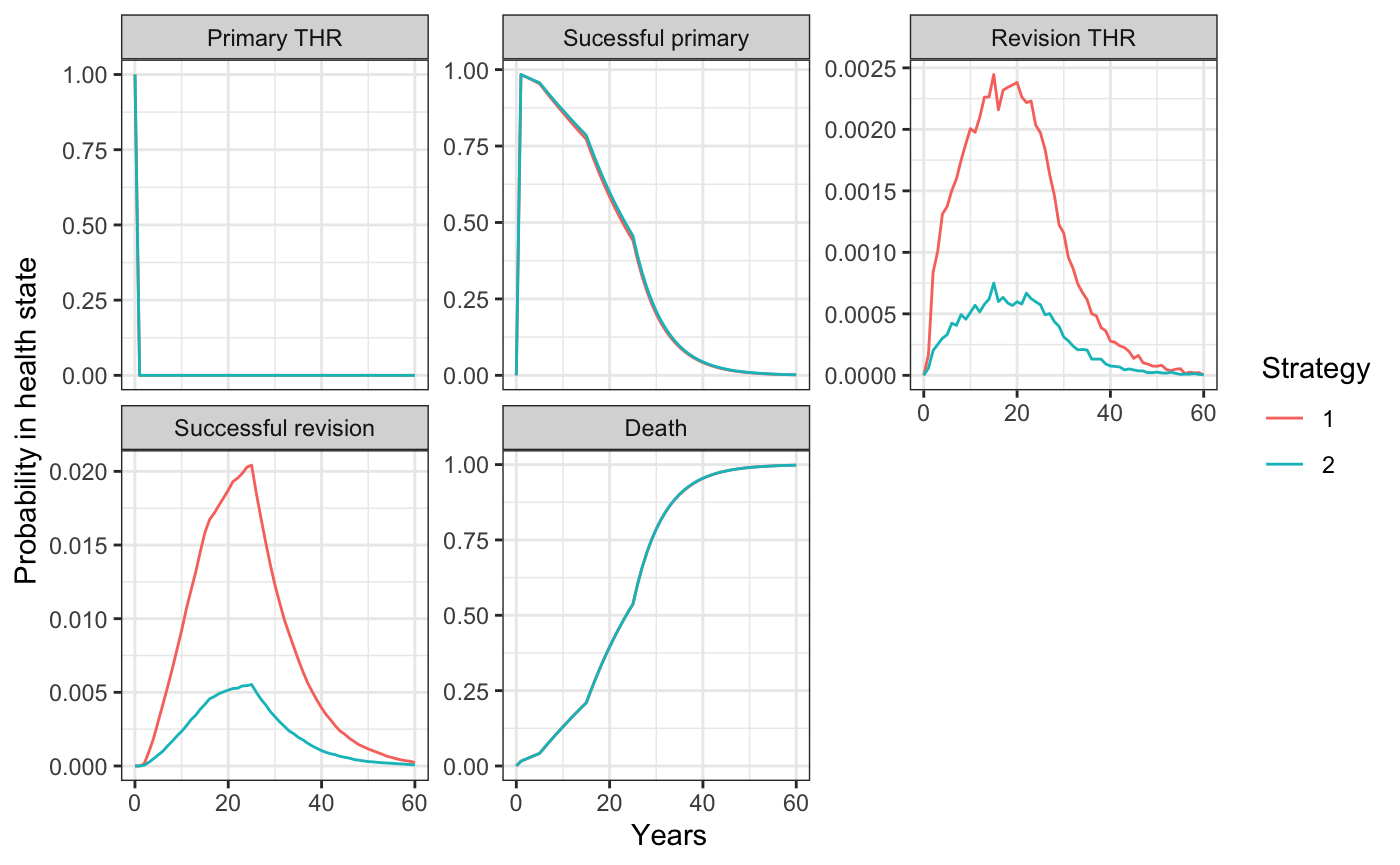
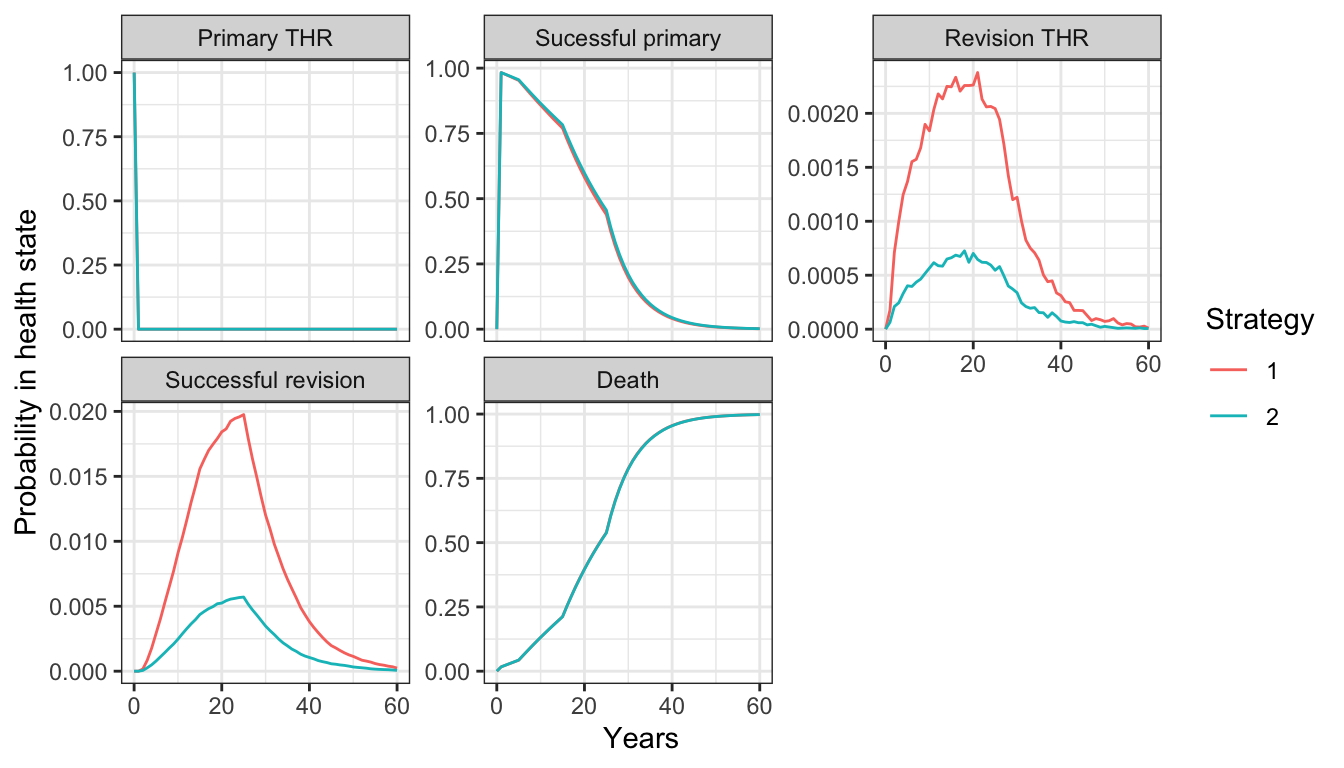
Set figure width in markov-inhomogeneous-indiv vignette

diff --git a/docs/articles/markov-inhomogeneous-indiv.html b/docs/articles/markov-inhomogeneous-indiv.html
@@ -454,20 +454,20 @@ NA
 <p>To get a better understanding of the output, lets take a look at a few of the sampled coefficient matrices.</p>
 <div class="sourceCode" id="cb18"><html><body><pre class="r"><span class="fu"><a href="https://rdrr.io/r/utils/head.html">head</a></span>(<span class="no">transmod_coef</span>$<span class="no">log_omrPTHR</span>)</pre></body></html></div>
 <pre><code>##           cons
-## [1,] -2.740368
-## [2,] -4.213606
-## [3,] -5.785237
-## [4,] -4.252845
-## [5,] -4.341785
-## [6,] -3.415527</code></pre>
+## [1,] -3.692441
+## [2,] -3.322344
+## [3,] -3.576564
+## [4,] -4.214177
+## [5,] -5.830016
+## [6,] -5.258635</code></pre>
 <div class="sourceCode" id="cb20"><html><body><pre class="r"><span class="fu"><a href="https://rdrr.io/r/utils/head.html">head</a></span>(<span class="no">transmod_coef</span>$<span class="no">rr_scale</span>)</pre></body></html></div>
 <pre><code>##           cons         age      male        np1
-## [1,] -5.248712 -0.03263126 0.7314894 -1.2546086
-## [2,] -5.418861 -0.03759469 0.6958463 -2.1647268
-## [3,] -5.486246 -0.03359379 0.7032646 -0.9182247
-## [4,] -5.170537 -0.04547039 0.8612245 -0.8987195
-## [5,] -5.523637 -0.03472563 0.7539006 -0.9951101
-## [6,] -5.464283 -0.04043806 0.7835195 -1.5573427</code></pre>
+## [1,] -5.638426 -0.03219529 0.6954174 -1.3332370
+## [2,] -5.264086 -0.04185060 0.7056097 -1.2771547
+## [3,] -5.023239 -0.04024714 0.7032827 -1.5453469
+## [4,] -5.188873 -0.03706865 0.6898302 -0.6941235
+## [5,] -5.476890 -0.03878206 0.7200600 -0.6540298
+## [6,] -5.414846 -0.04492552 0.9232169 -1.2245608</code></pre>
 <p>In addition to the coefficients, a complete parameterization of a transition model requires specification of the survival distributions and potentially auxiliary information (e.g., the times at which rates change in a piecewise exponential model). The parameters are stored in a <code><a href="../reference/params_surv_list.html">params_surv_list()</a></code> object, which is a list of <code><a href="../reference/params_surv.html">params_surv()</a></code> objects.</p>
 <div class="sourceCode" id="cb22"><html><body><pre class="r"><span class="no">transmod_params</span> <span class="kw">&lt;-</span> <span class="fu"><a href="../reference/params_surv_list.html">params_surv_list</a></span>(
   <span class="co"># 1. Primary THR:Successful primary (1:2)</span>
@@ -611,18 +611,18 @@ NA
 <span class="no">econmod</span>$<span class="fu">sim_disease</span>(<span class="kw">max_t</span> <span class="kw">=</span> <span class="fl">60</span>, <span class="kw">max_age</span> <span class="kw">=</span> <span class="fl">120</span>)
 <span class="fu"><a href="https://rdrr.io/r/base/proc.time.html">proc.time</a></span>() - <span class="no">ptm</span></pre></body></html></div>
 <pre><code>##    user  system elapsed 
-##   2.629   0.155   2.894</code></pre>
+##   2.473   0.130   2.611</code></pre>
 <div class="sourceCode" id="cb34"><html><body><pre class="r"><span class="fu"><a href="https://rdrr.io/r/utils/head.html">head</a></span>(<span class="no">econmod</span>$<span class="no">disprog_</span>)</pre></body></html></div>
 <pre><code>##    sample strategy_id patient_id grp_id from to final time_start  time_stop
-## 1:      1           1          1      1    1  5     1  0.0000000  0.2270271
-## 2:      1           1          2      1    1  2     0  0.0000000  0.6931472
-## 3:      1           1          2      1    2  5     1  0.6931472 30.3884775
-## 4:      1           1          3      1    1  2     0  0.0000000  0.6931472
-## 5:      1           1          3      1    2  5     1  0.6931472 15.2796079
-## 6:      1           1          4      1    1  2     0  0.0000000  0.6931472</code></pre>
+## 1:      1           1          1      1    1  2     0  0.0000000  0.6931472
+## 2:      1           1          1      1    2  5     1  0.6931472  9.9286438
+## 3:      1           1          2      1    1  2     0  0.0000000  0.6931472
+## 4:      1           1          2      1    2  5     1  0.6931472 30.7872517
+## 5:      1           1          3      1    1  2     0  0.0000000  0.6931472
+## 6:      1           1          3      1    2  5     1  0.6931472 32.3541173</code></pre>
 <p>The simulated patient trajectories can be summarized by computing the probability of being in each health state over time (by averaging across the simulated patients). Here, we will compute state occupancy probabilities at yearly intervals. They are generally quite similar to those in the cohort model.</p>
 <div class="sourceCode" id="cb36"><html><body><pre class="r"><span class="no">econmod</span>$<span class="fu">sim_stateprobs</span>(<span class="kw">t</span> <span class="kw">=</span> <span class="fl">0</span>:<span class="fl">60</span>)</pre></body></html></div>
-<p><img src="markov-inhomogeneous-indiv_files/figure-html/unnamed-chunk-28-1.png" width="700"></p>
+<p><img src="markov-inhomogeneous-indiv_files/figure-html/unnamed-chunk-28-1.png" width="672"></p>
 </div>
 <div id="costs-and-qalys" class="section level3">
 <h3 class="hasAnchor">
@@ -635,14 +635,14 @@ NA
 <span class="no">ce_sim</span>$<span class="no">qalys</span>[, <span class="fu">.</span>(<span class="kw">mean</span> <span class="kw">=</span> <span class="fu"><a href="https://rdrr.io/r/base/mean.html">mean</a></span>(<span class="no">qalys</span>)),
                 <span class="kw">by</span> <span class="kw">=</span> <span class="fu"><a href="https://rdrr.io/r/base/c.html">c</a></span>(<span class="st">"strategy_id"</span>)]</pre></body></html></div>
 <pre><code>##    strategy_id     mean
-## 1:           1 15.23980
-## 2:           2 15.27757</code></pre>
+## 1:           1 15.13155
+## 2:           2 15.19575</code></pre>
 <div class="sourceCode" id="cb40"><html><body><pre class="r"><span class="no">ce_sim</span>$<span class="no">costs</span>[<span class="no">category</span> <span class="kw">==</span> <span class="st">"total"</span>,
             <span class="fu">.</span>(<span class="kw">mean</span> <span class="kw">=</span> <span class="fu"><a href="https://rdrr.io/r/base/mean.html">mean</a></span>(<span class="no">costs</span>)),
               <span class="kw">by</span> <span class="kw">=</span> <span class="fu"><a href="https://rdrr.io/r/base/c.html">c</a></span>(<span class="st">"strategy_id"</span>)]</pre></body></html></div>
-<pre><code>##    strategy_id    mean
-## 1:           1 516.242
-## 2:           2 611.826</code></pre>
+<pre><code>##    strategy_id     mean
+## 1:           1 517.4091
+## 2:           2 614.0296</code></pre>
 </div>
 </div>
 </div>
@@ -654,10 +654,10 @@ NA
                      <span class="kw">k</span> <span class="kw">=</span> <span class="fu"><a href="https://rdrr.io/r/base/seq.html">seq</a></span>(<span class="fl">0</span>, <span class="fl">25000</span>, <span class="fl">500</span>))
 <span class="fu"><a href="../reference/icer_tbl.html">icer_tbl</a></span>(<span class="no">cea_pw_out</span>)</pre></body></html></div>
 <pre><code>##                   1   2                        
-## Incremental QALYs "-" "0.04 (-0.44, 0.56)"     
-## Incremental costs "-" "96 (-27, 162)"          
-## Incremental NMB   "-" "1,793 (-22,125, 27,967)"
-## ICER              "-" "2,531"                  
+## Incremental QALYs "-" "0.06 (-0.47, 0.66)"     
+## Incremental costs "-" "97 (-7, 165)"           
+## Incremental NMB   "-" "3,114 (-23,387, 33,090)"
+## ICER              "-" "1,505"                  
 ## Conclusion        "-" "Cost-effective"</code></pre>
 </div>
   </div>
